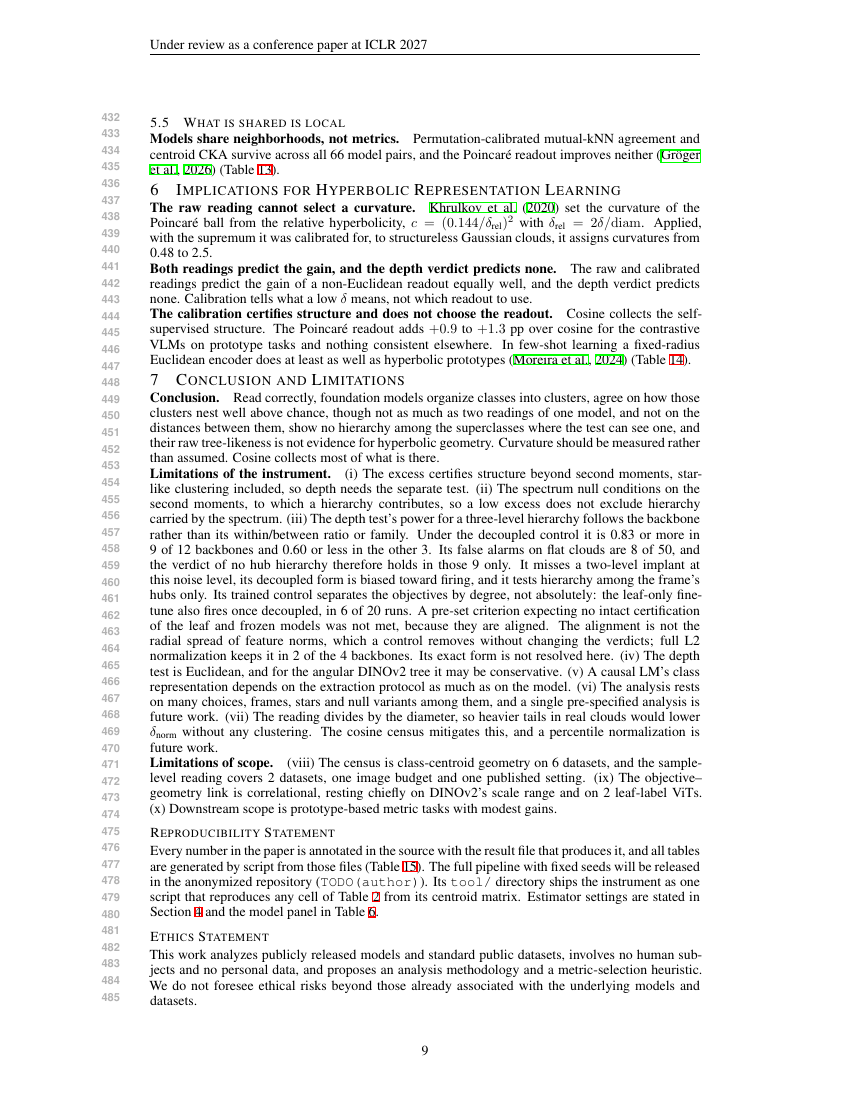
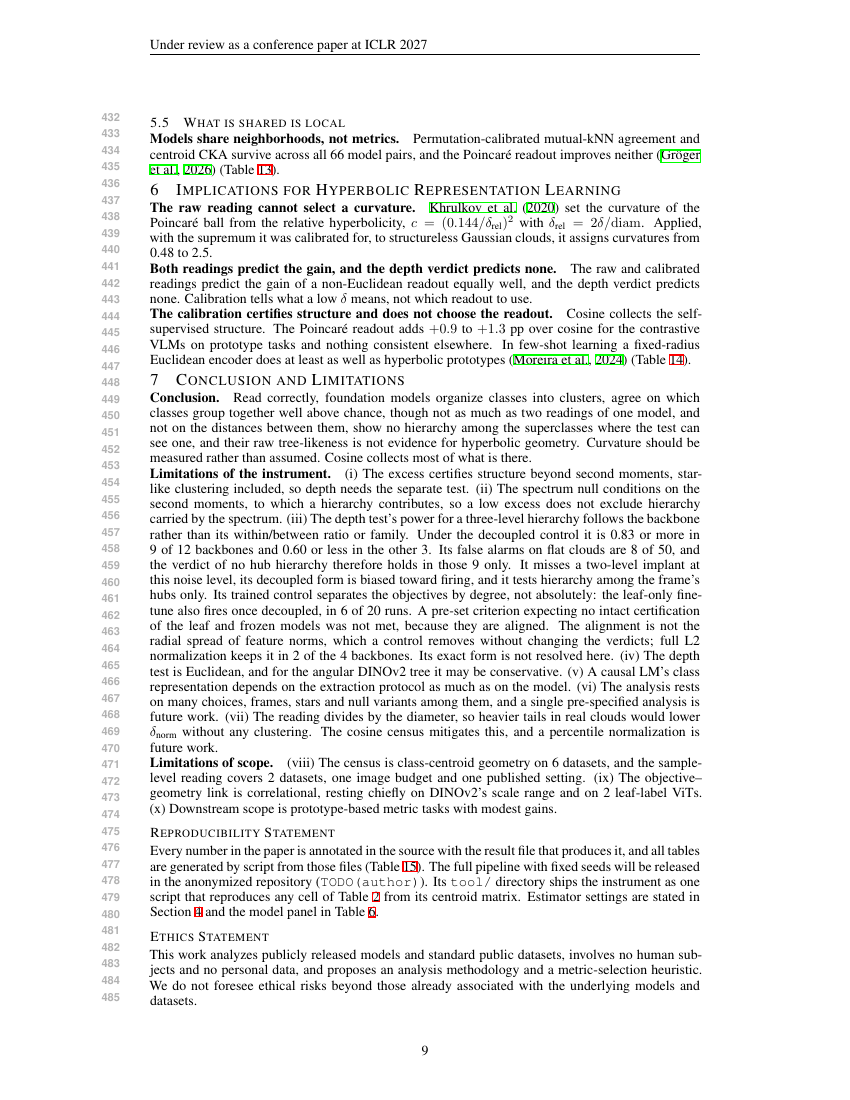
Thesis (author): 'agree on how those clusters nest' -> 'agree on which classes group together' in the abstract and S7; thesis check updated; OpenReview abstract exported; sweep 226/226; page 9; CHANGELOG 68
Claude-Session: https://claude.ai/code/session_01X3uQtPxuL37VCSgmwvB8QH

Changed region(s): [[0.1835, 0.34, 0.8259, 0.4327]]

diff --git a/ICLR2027/iclr2027/main_iclr2027_final.tex b/ICLR2027/iclr2027/main_iclr2027_final.tex
@@ -61,7 +61,7 @@
 \raggedbottom   % final pass: [t] figures and [H] tables leave short pages; ragged bottoms instead of underfull vertical boxes
 
 \begin{abstract}
-Hyperbolic representation learning rests on a premise we call latent hyperbolicity: standard models are already tree-like because their class geometry scores a low Gromov $\delta$, a measure of tree-likeness that is zero for a tree. That low value is also what a random cloud of the same dimension and spread scores, so we build an instrument that reads every score as its excess over many such clouds, and a hierarchy test whose ability to detect a hierarchy is measured. We apply it to 12 vision backbones, 6 datasets and 15 text models. On image features, where the premise is read, the calibrated reading is indistinguishable from a random cloud in most model--dataset cells and small elsewhere. Class centroids do carry structure that a random cloud of the same shape does not, in 44 of 72 cells, but so does a star of clusters. In 4 of 12 ImageNet backbones the hierarchy test finds structure, but it is the orientation of clusters relative to the superclass centers, not a hierarchy among those centers: randomizing orientations removes it, whereas a planted hierarchy, synthetic or trained in, survives. Where a planted hierarchy is detected, in 9 of 12 backbones, no hierarchy as strong as the planted one is found; in the other 3 the test cannot tell. MERU, trained in hyperbolic space, shows the same structure as its Euclidean twin in a space that stays nearly flat. In text, the result depends on the model's recipe and size. Across models, the usual comparison makes the self-supervised models look like outliers, an artifact of how trees are cut into groups. Compared properly, the trees agree on which classes group together well above chance, though less than two readings of the same model, and not on distances; the self-supervised models organize classes by direction rather than by distance. Read correctly, foundation models organize classes into clusters, agree on how those clusters nest well above chance, though not as much as two readings of one model, and not on the distances between them, show no hierarchy among the superclasses where the test can see one, and their raw tree-likeness is not evidence for hyperbolic geometry.
+Hyperbolic representation learning rests on a premise we call latent hyperbolicity: standard models are already tree-like because their class geometry scores a low Gromov $\delta$, a measure of tree-likeness that is zero for a tree. That low value is also what a random cloud of the same dimension and spread scores, so we build an instrument that reads every score as its excess over many such clouds, and a hierarchy test whose ability to detect a hierarchy is measured. We apply it to 12 vision backbones, 6 datasets and 15 text models. On image features, where the premise is read, the calibrated reading is indistinguishable from a random cloud in most model--dataset cells and small elsewhere. Class centroids do carry structure that a random cloud of the same shape does not, in 44 of 72 cells, but so does a star of clusters. In 4 of 12 ImageNet backbones the hierarchy test finds structure, but it is the orientation of clusters relative to the superclass centers, not a hierarchy among those centers: randomizing orientations removes it, whereas a planted hierarchy, synthetic or trained in, survives. Where a planted hierarchy is detected, in 9 of 12 backbones, no hierarchy as strong as the planted one is found; in the other 3 the test cannot tell. MERU, trained in hyperbolic space, shows the same structure as its Euclidean twin in a space that stays nearly flat. In text, the result depends on the model's recipe and size. Across models, the usual comparison makes the self-supervised models look like outliers, an artifact of how trees are cut into groups. Compared properly, the trees agree on which classes group together well above chance, though less than two readings of the same model, and not on distances; the self-supervised models organize classes by direction rather than by distance. Read correctly, foundation models organize classes into clusters, agree on which classes group together well above chance, though not as much as two readings of one model, and not on the distances between them, show no hierarchy among the superclasses where the test can see one, and their raw tree-likeness is not evidence for hyperbolic geometry.
 \end{abstract}
 
 \section{Introduction}
@@ -330,7 +330,7 @@ The spread is taken over star seeds and null replicates, and a cloud is certifie
 \section{Conclusion and Limitations}
 \label{sec:discussion}
 
-\paragraph{Conclusion.} Read correctly, foundation models organize classes into clusters, agree on how those clusters nest well above chance, though not as much as two readings of one model, and not on the distances between them, show no hierarchy among the superclasses where the test can see one, and their raw tree-likeness is not evidence for hyperbolic geometry. Curvature should be measured rather than assumed. Cosine collects most of what is there.
+\paragraph{Conclusion.} Read correctly, foundation models organize classes into clusters, agree on which classes group together well above chance, though not as much as two readings of one model, and not on the distances between them, show no hierarchy among the superclasses where the test can see one, and their raw tree-likeness is not evidence for hyperbolic geometry. Curvature should be measured rather than assumed. Cosine collects most of what is there.
 
 \paragraph{Limitations of the instrument.} (i)~The excess certifies structure beyond second moments, star-like clustering included, so depth needs the separate test. (ii)~The spectrum null conditions on the second moments, to which a hierarchy contributes, so a low excess does not exclude hierarchy carried by the spectrum. (iii)~The depth test's power for a three-level hierarchy follows the backbone rather than its within/between ratio or family. Under the decoupled control it is 0.83 or more in 9 of 12 backbones and 0.60 or less in the other 3. Its false alarms on flat clouds are 8 of 50, and the verdict of no hub hierarchy therefore holds in those 9 only. It misses a two-level implant at this noise level, its decoupled form is biased toward firing, and it tests hierarchy among the frame's hubs only. Its trained control separates the objectives by degree, not absolutely: the leaf-only fine-tune also fires once decoupled, in 6 of 20 runs. A pre-set criterion expecting no intact certification of the leaf and frozen models was not met, because they are aligned. The alignment is not the radial spread of feature norms, which a control removes without changing the verdicts; full L2 normalization keeps it in 2 of the 4 backbones. Its exact form is not resolved here. (iv)~The depth test is Euclidean, and for the angular DINOv2 tree it may be conservative. (v)~A causal LM's class representation depends on the extraction protocol as much as on the model. (vi)~The analysis rests on many choices, frames, stars and null variants among them, and a single pre-specified analysis is future work. (vii)~The reading divides by the diameter, so heavier tails in real clouds would lower $\delta_{\text{norm}}$ without any clustering. The cosine census mitigates this, and a percentile normalization is future work. % expR80_implanted_alignment.csv, expR79_synthetic_deep_poincare.csv, expR81_deep_per_backbone_summary.csv
 

diff --git a/ICLR2027/iclr2027/main_iclr2027_rebuttal.tex b/ICLR2027/iclr2027/main_iclr2027_rebuttal.tex
@@ -62,7 +62,7 @@
 \raggedbottom   % final pass: [t] figures and [H] tables leave short pages; ragged bottoms instead of underfull vertical boxes
 
 \begin{abstract}
-Hyperbolic representation learning rests on a premise we call latent hyperbolicity: standard models are already tree-like because their class geometry scores a low Gromov $\delta$, a measure of tree-likeness that is zero for a tree. That low value is also what a random cloud of the same dimension and spread scores, so we build an instrument that reads every score as its excess over many such clouds, and a hierarchy test whose ability to detect a hierarchy is measured. We apply it to 12 vision backbones, 6 datasets and 15 text models. On image features, where the premise is read, the calibrated reading is indistinguishable from a random cloud in most model--dataset cells and small elsewhere. Class centroids do carry structure that a random cloud of the same shape does not, in 44 of 72 cells, but so does a star of clusters. In 4 of 12 ImageNet backbones the hierarchy test finds structure, but it is the orientation of clusters relative to the superclass centers, not a hierarchy among those centers: randomizing orientations removes it, whereas a planted hierarchy, synthetic or trained in, survives. Where a planted hierarchy is detected, in 9 of 12 backbones, no hierarchy as strong as the planted one is found; in the other 3 the test cannot tell. MERU, trained in hyperbolic space, shows the same structure as its Euclidean twin in a space that stays nearly flat. In text, the result depends on the model's recipe and size. Across models, the usual comparison makes the self-supervised models look like outliers, an artifact of how trees are cut into groups. Compared properly, the trees agree on which classes group together well above chance, though less than two readings of the same model, and not on distances; the self-supervised models organize classes by direction rather than by distance. Read correctly, foundation models organize classes into clusters, agree on how those clusters nest well above chance, though not as much as two readings of one model, and not on the distances between them, show no hierarchy among the superclasses where the test can see one, and their raw tree-likeness is not evidence for hyperbolic geometry.
+Hyperbolic representation learning rests on a premise we call latent hyperbolicity: standard models are already tree-like because their class geometry scores a low Gromov $\delta$, a measure of tree-likeness that is zero for a tree. That low value is also what a random cloud of the same dimension and spread scores, so we build an instrument that reads every score as its excess over many such clouds, and a hierarchy test whose ability to detect a hierarchy is measured. We apply it to 12 vision backbones, 6 datasets and 15 text models. On image features, where the premise is read, the calibrated reading is indistinguishable from a random cloud in most model--dataset cells and small elsewhere. Class centroids do carry structure that a random cloud of the same shape does not, in 44 of 72 cells, but so does a star of clusters. In 4 of 12 ImageNet backbones the hierarchy test finds structure, but it is the orientation of clusters relative to the superclass centers, not a hierarchy among those centers: randomizing orientations removes it, whereas a planted hierarchy, synthetic or trained in, survives. Where a planted hierarchy is detected, in 9 of 12 backbones, no hierarchy as strong as the planted one is found; in the other 3 the test cannot tell. MERU, trained in hyperbolic space, shows the same structure as its Euclidean twin in a space that stays nearly flat. In text, the result depends on the model's recipe and size. Across models, the usual comparison makes the self-supervised models look like outliers, an artifact of how trees are cut into groups. Compared properly, the trees agree on which classes group together well above chance, though less than two readings of the same model, and not on distances; the self-supervised models organize classes by direction rather than by distance. Read correctly, foundation models organize classes into clusters, agree on which classes group together well above chance, though not as much as two readings of one model, and not on the distances between them, show no hierarchy among the superclasses where the test can see one, and their raw tree-likeness is not evidence for hyperbolic geometry.
 \end{abstract}
 
 \section{Introduction}
@@ -331,7 +331,7 @@ The spread is taken over star seeds and null replicates, and a cloud is certifie
 \section{Conclusion and Limitations}
 \label{sec:discussion}
 
-\paragraph{Conclusion.} Read correctly, foundation models organize classes into clusters, agree on how those clusters nest well above chance, though not as much as two readings of one model, and not on the distances between them, show no hierarchy among the superclasses where the test can see one, and their raw tree-likeness is not evidence for hyperbolic geometry. Curvature should be measured rather than assumed. Cosine collects most of what is there.
+\paragraph{Conclusion.} Read correctly, foundation models organize classes into clusters, agree on which classes group together well above chance, though not as much as two readings of one model, and not on the distances between them, show no hierarchy among the superclasses where the test can see one, and their raw tree-likeness is not evidence for hyperbolic geometry. Curvature should be measured rather than assumed. Cosine collects most of what is there.
 
 \paragraph{Limitations of the instrument.} (i)~The excess certifies structure beyond second moments, star-like clustering included, so depth needs the separate test. (ii)~The spectrum null conditions on the second moments, to which a hierarchy contributes, so a low excess does not exclude hierarchy carried by the spectrum. (iii)~The depth test's power for a three-level hierarchy follows the backbone rather than its within/between ratio or family. Under the decoupled control it is 0.83 or more in 9 of 12 backbones and 0.60 or less in the other 3. Its false alarms on flat clouds are 8 of 50, and the verdict of no hub hierarchy therefore holds in those 9 only. It misses a two-level implant at this noise level, its decoupled form is biased toward firing, and it tests hierarchy among the frame's hubs only. Its trained control separates the objectives by degree, not absolutely: the leaf-only fine-tune also fires once decoupled, in 6 of 20 runs. A pre-set criterion expecting no intact certification of the leaf and frozen models was not met, because they are aligned. The alignment is not the radial spread of feature norms, which a control removes without changing the verdicts; full L2 normalization keeps it in 2 of the 4 backbones. Its exact form is not resolved here. (iv)~The depth test is Euclidean, and for the angular DINOv2 tree it may be conservative. (v)~A causal LM's class representation depends on the extraction protocol as much as on the model. (vi)~The analysis rests on many choices, frames, stars and null variants among them, and a single pre-specified analysis is future work. (vii)~The reading divides by the diameter, so heavier tails in real clouds would lower $\delta_{\text{norm}}$ without any clustering. The cosine census mitigates this, and a percentile normalization is future work. % expR80_implanted_alignment.csv, expR79_synthetic_deep_poincare.csv, expR81_deep_per_backbone_summary.csv
 

diff --git a/rebuttal/scripts/phaseE_submission.py b/rebuttal/scripts/phaseE_submission.py
@@ -94,7 +94,7 @@ def edit(s):
     return s
 # sixth review (2026-09-20): the abstract is rewritten by order to 250 words or fewer, depth left open, cell defined in its own sentence;
 # the text below replaces the edited verbatim abstract and is recorded in final_verbatim_edits.json ("abstract_sixth_review")
-ABSTRACT_TEXT = ("Hyperbolic representation learning rests on a premise we call latent hyperbolicity: standard models are already tree-like because their class geometry scores a low Gromov $\\delta$, a measure of tree-likeness that is zero for a tree. That low value is also what a random cloud of the same dimension and spread scores, so we build an instrument that reads every score as its excess over many such clouds, and a hierarchy test whose ability to detect a hierarchy is measured. We apply it to 12 vision backbones, 6 datasets and 15 text models. On image features, where the premise is read, the calibrated reading is indistinguishable from a random cloud in most model--dataset cells and small elsewhere. Class centroids do carry structure that a random cloud of the same shape does not, in {{N_GEN}} of 72 cells, but so does a star of clusters. In {{N_IN}} of 12 ImageNet backbones the hierarchy test finds structure, but it is the orientation of clusters relative to the superclass centers, not a hierarchy among those centers: randomizing orientations removes it, whereas a planted hierarchy, synthetic or trained in, survives. Where a planted hierarchy is detected, in 9 of 12 backbones, no hierarchy as strong as the planted one is found; in the other 3 the test cannot tell. MERU, trained in hyperbolic space, shows the same structure as its Euclidean twin in a space that stays nearly flat. In text, the result depends on the model's recipe and size. Across models, the usual comparison makes the self-supervised models look like outliers, an artifact of how trees are cut into groups. Compared properly, the trees agree on which classes group together well above chance, though less than two readings of the same model, and not on distances; the self-supervised models organize classes by direction rather than by distance. Read correctly, foundation models organize classes into clusters, agree on how those clusters nest well above chance, though not as much as two readings of one model, and not on the distances between them, show no hierarchy among the superclasses where the test can see one, and their raw tree-likeness is not evidence for hyperbolic geometry.")   # the author's abstract of 2026-09-22 (late evening) with the four edits of 2026-09-23 (13:50), verbatim; the last sentence is the thesis
+ABSTRACT_TEXT = ("Hyperbolic representation learning rests on a premise we call latent hyperbolicity: standard models are already tree-like because their class geometry scores a low Gromov $\\delta$, a measure of tree-likeness that is zero for a tree. That low value is also what a random cloud of the same dimension and spread scores, so we build an instrument that reads every score as its excess over many such clouds, and a hierarchy test whose ability to detect a hierarchy is measured. We apply it to 12 vision backbones, 6 datasets and 15 text models. On image features, where the premise is read, the calibrated reading is indistinguishable from a random cloud in most model--dataset cells and small elsewhere. Class centroids do carry structure that a random cloud of the same shape does not, in {{N_GEN}} of 72 cells, but so does a star of clusters. In {{N_IN}} of 12 ImageNet backbones the hierarchy test finds structure, but it is the orientation of clusters relative to the superclass centers, not a hierarchy among those centers: randomizing orientations removes it, whereas a planted hierarchy, synthetic or trained in, survives. Where a planted hierarchy is detected, in 9 of 12 backbones, no hierarchy as strong as the planted one is found; in the other 3 the test cannot tell. MERU, trained in hyperbolic space, shows the same structure as its Euclidean twin in a space that stays nearly flat. In text, the result depends on the model's recipe and size. Across models, the usual comparison makes the self-supervised models look like outliers, an artifact of how trees are cut into groups. Compared properly, the trees agree on which classes group together well above chance, though less than two readings of the same model, and not on distances; the self-supervised models organize classes by direction rather than by distance. Read correctly, foundation models organize classes into clusters, agree on which classes group together well above chance, though not as much as two readings of one model, and not on the distances between them, show no hierarchy among the superclasses where the test can see one, and their raw tree-likeness is not evidence for hyperbolic geometry.")   # the author's abstract of 2026-09-22 (late evening) with the four edits of 2026-09-23 (13:50), verbatim; the last sentence is the thesis
 ABSTRACT_SIXTH = ABSTRACT_TEXT   # 2026-09-21: the abstract with priorities 1b and 2 (author's brief); recorded as abstract_final
 ABSTRACT = "\\begin{abstract}\n" + ABSTRACT_TEXT + "\n\\end{abstract}"
 _aw = len(re.sub(r"\{\{[A-Z_]+\}\}", "44", ABSTRACT_TEXT).split()); assert _aw <= 400, _aw   # 250 is the author's cap; 253 since the author's retouch of 2026-09-21 (three trims rejected), pending the author's decision; the sweep still reports the cap

diff --git a/rebuttal/scripts/sweep_freeze.py b/rebuttal/scripts/sweep_freeze.py
@@ -1027,7 +1027,7 @@ def final_checks():
     bh = [m for m in MARK if m.lower() in body_nocite.lower()]
     chk("final: no bridge sentences anywhere in the body", not bh, str(bh))
     BANNED = ["we note", "interestingly", "importantly", "in plain terms", "notably", "essentially", "substantially", "somewhat", "we believe", "our approach", "the method", "tool"]   # "largely" left the list on 2026-09-22: the author's thesis reads "largely shared"
-    THESIS = "Read correctly, foundation models organize classes into clusters, agree on how those clusters nest well above chance, though not as much as two readings of one model, and not on the distances between them, show no hierarchy among the superclasses where the test can see one, and their raw tree-likeness is not evidence for hyperbolic geometry."   # thesis after expR84 (2026-09-22, evening): topology largely shared, metric not
+    THESIS = "Read correctly, foundation models organize classes into clusters, agree on which classes group together well above chance, though not as much as two readings of one model, and not on the distances between them, show no hierarchy among the superclasses where the test can see one, and their raw tree-likeness is not evidence for hyperbolic geometry."   # thesis after expR84 (2026-09-22, evening): topology largely shared, metric not
     chk("final: thesis verbatim exactly twice (abstract's last sentence, S7 conclusion), no short form", bf.count(THESIS) == 2 and "no license for curvature" not in bf and THESIS in bf[bf.index("\\paragraph{Conclusion.}"):] and "occasionally hierarchical" not in bf)
     # ---- structure: classic skeleton, seven inline unframed definitions, seven equations, Proposition 1 (a)(b) proved in Appendix A, no boxes
     secs_ = _re.findall(r"\\section\{([^}]*)\}", bf); subs_ = _re.findall(r"\\subsection\{([^}]*)\}", bf); prop = bf[bf.index("\\begin{proposition}"):bf.index("\\end{proposition}")]
@@ -1197,7 +1197,7 @@ def final_checks():
         and "Given an implanted two-level tree at this noise level, the test misses it" in bf and bf.count("That detection survives orientation randomization, whereas none of the 4 real verdicts does.") == 1 and "whereas an implanted hierarchy, synthetic or trained in, survives it; no hub hierarchy is found in 9 of 12 backbones where an implanted one is detected once cluster orientations are randomized, and the test is blind in the other 3." in bf and "given a three-level hierarchy with ViT-L's spectrum and noise, it detects it in" in bf and "no hierarchy above the superclasses is certified" not in bf and "clusters oriented toward their hubs in a few, no hub hierarchy in 9 of 12 backbones where an implanted one is detected once cluster orientations are randomized, a blind test in the other 3, and a nominally hyperbolic backbone" in bf
         and "\\caption{\\textbf{What the depth test certifies, and where it can see a hierarchy.} (a) Depth $z$ per backbone, filled when certified; line at $z=-2$. (b) Decoupled power for an implanted three-level hierarchy, filled at 0.8 or more; line at 0.8." in bf and "hub-aligned" not in bf and bf.count("clusters are oriented toward their hubs") >= 1 and "A model--dataset cell is genuine when" in bf and "certified against its matched star" in bf and "no hub hierarchy is found in 9 of 12 backbones where the decoupled control detects an implanted one, and the test is blind in the other 3" in dep and "where a deep synthetic one is detected" not in bf and "left open" not in bf and "no power at this noise level" not in bf
         and "hub--offset" not in bf and "certified hierarchy" not in bf and "certifies clustered structure" not in bf and "clustering is its most plausible reading" in bf and "Calibration tells what a low" in bf and "centering term" not in bf and "reproduces the centered spectrum exactly" in bf and "decoupled $z$" in dep and "expR66c_joint_sensitivity_summary.csv" in rob
-        and "certifies clustering" not in TF and "validated regime" not in TF and "validated range" not in TF and "The census does not certify that frame" in bf and "The alignment is relational" in bf and "organize classes into clusters, agree on how those clusters nest well above chance" in bf
+        and "certifies clustering" not in TF and "validated regime" not in TF and "validated range" not in TF and "The census does not certify that frame" in bf and "The alignment is relational" in bf and "organize classes into clusters, agree on which classes group together well above chance" in bf
         and "The depth test has full power on synthetic hierarchies at the leaf frame and none at the top-level frame used on real backbones" in pw and "certifies structure beyond the second moments, not depth" in (FD/"tab_q10_calibration.tex").read_text())
     # ---- brief of 2026-09-21: priorities 1b and 2 in the submission, 1c as a limitation with Table 9c; every number re-derived from its file
     import pandas as pd

diff --git a/ICLR2027/CHANGELOG_final.md b/ICLR2027/CHANGELOG_final.md
@@ -2423,3 +2423,9 @@ un CSV; `rebuttal/results/phaseE_fills.json` guarda los valores); el apéndice, 
   as the planted one is found".
 - Sweep: literales del abstract (frases 7 y 9, recuento de la frase de acuerdo 3 → 2, "none as strong…" 2 → 1) y comprobaciones de las
   tres frases nuevas; sin cambio de números.
+## 68. Tesis, una cláusula (2026-09-23, 15:30, brief del autor).
+
+- Abstract y §7: "agree on how those clusters nest" → "agree on which classes group together" en la frase de la tesis (sigue en 56
+  palabras, la excepción declarada a la regla de 30). `OPENREVIEW_abstract.txt` regenerado.
+- Sweep: literal de la tesis actualizado (comprobación de la tesis y comprobación de la duodécima revisión, que la exigen idéntica en
+  abstract y §7); sin cambio de números.
